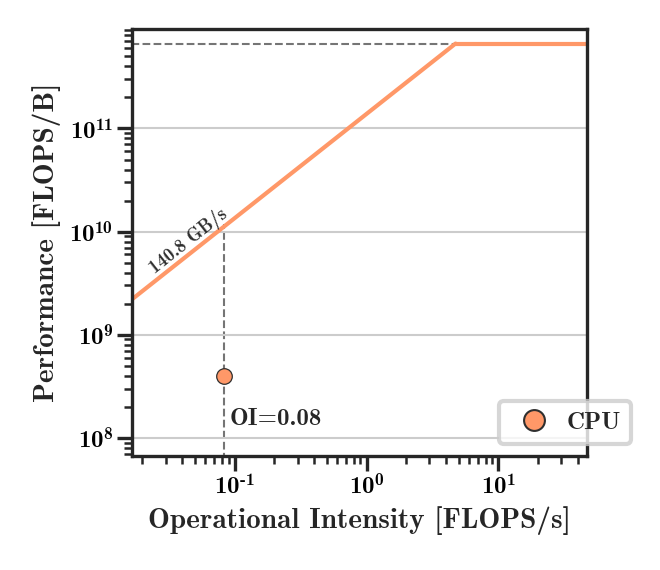
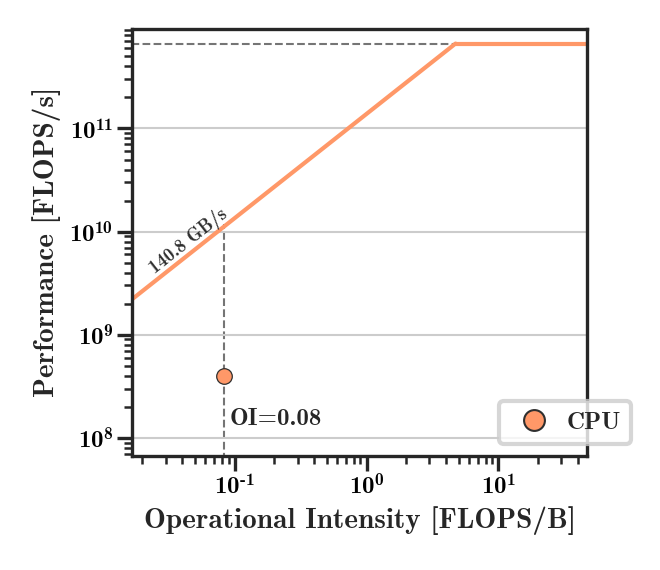
fixed default labels in roofline

Changed region(s): [[0.0303, 0.1491, 0.0909, 0.7158], [0.2121, 0.8649, 0.8788, 0.9544]]

diff --git a/src/examples/roofline.py b/src/examples/roofline.py
@@ -54,8 +54,8 @@ def roofline(performance: list, operational_intensity: list,
              ymin: float=None, ymax: float=None,
              palette: list=None, markers: list=None,
              base_font_size: int=6,
-             xlabel: str="Operational Intensity [{}/s]",
-             ylabel: str="Performance [{}/B]",
+             xlabel: str="Operational Intensity [{}/B]",
+             ylabel: str="Performance [{}/s]",
              performance_unit: str="FLOPS",
              add_bandwidth_label: bool=True,
              bandwidth_label: str= "{:.1f} GB/s", 
